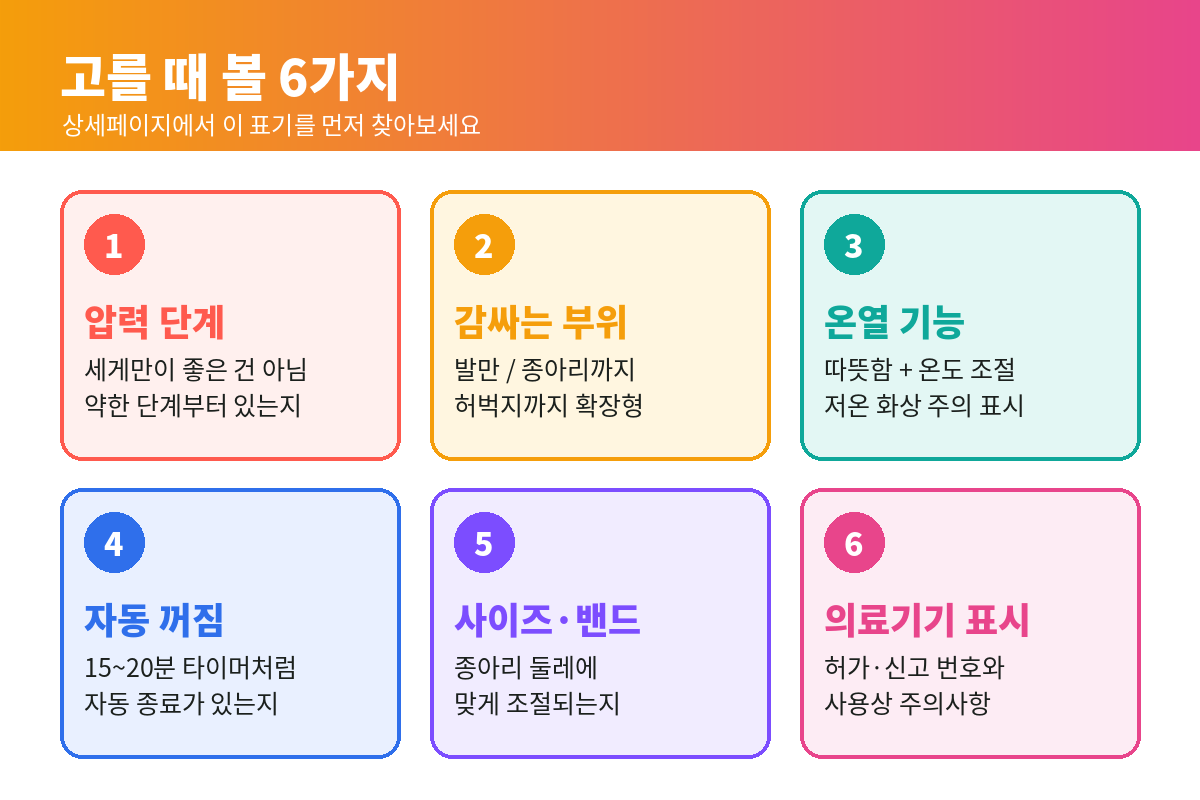
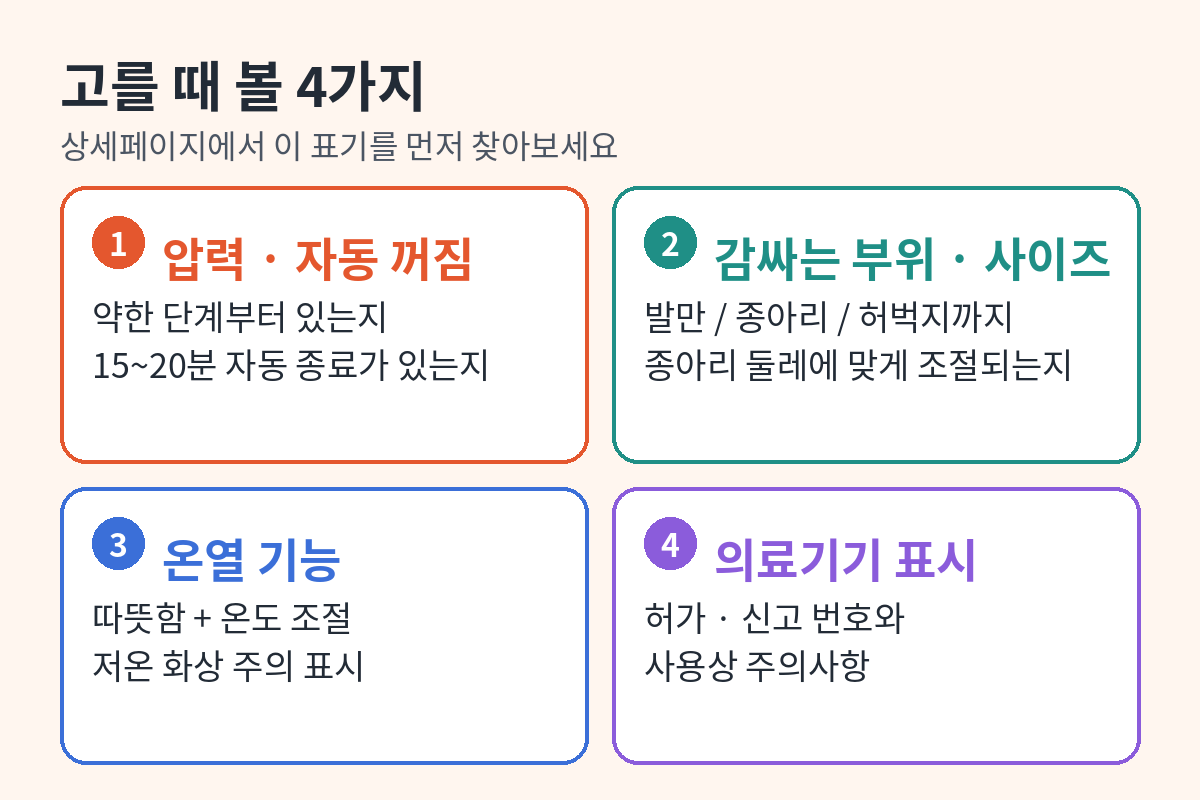
추천 글 설명 그래픽 6장 카드 4개·큰 글씨로 다시 그림 (컨펌 i11 1단계)
카드 6개였던 그래픽(S26 울트라 1, 탭 S12 울트라 1, JBL 어센틱 200 1, 노트북 1, 스팀 울트라 3, 종아리 마사지기 2)을
카드 4개로 묶고 본문 34px·제목 46px(1200px 기준)로 키움. 내용은 기존 그래픽 사실만 옮김. 종아리 마사지기 대체 문구 4가지로 수정.

Claude-Session: https://claude.ai/code/session_017BFN5KBp3WBuKJLGzNnSfA

diff --git a/shop-calf-foot-air-massager.html b/shop-calf-foot-air-massager.html
@@ -38,7 +38,7 @@
 
 <!-- at:assets -->
 <link rel="stylesheet" href="/assets/site.css?v=bbc86717">
-<script type="application/ld+json">{"@context":"https://schema.org","@graph":[{"@type":"WebPage","@id":"https://www.aroundtool.com/shop-calf-foot-air-massager.html#webpage","url":"https://www.aroundtool.com/shop-calf-foot-air-massager.html","name":"종아리 마사지기 공기압 추천 가격 총정리","description":"공기압 종아리·발 마사지기를 고를 때 볼 압력 단계, 감싸는 부위, 온열, 자동 꺼짐, 의료기기 표시를 그림으로 정리했습니다. 사용 전 상담이 필요한 경우와 가격 비교 기준까지.","inLanguage":"ko-KR","isPartOf":{"@id":"https://www.aroundtool.com/#website"},"publisher":{"@id":"https://www.aroundtool.com/#org"},"dateModified":"2026-10-24","primaryImageOfPage":{"@type":"ImageObject","contentUrl":"https://www.aroundtool.com/assets/shop/calf-foot-air-massager/og.jpg","url":"https://www.aroundtool.com/assets/shop/calf-foot-air-massager/og.jpg","caption":"닥터라이프 공기압 마사지기 다리 커버 한 쌍","name":"닥터라이프 공기압 마사지기 다리 커버 한 쌍","width":1200,"height":630,"creditText":"판매처 판매 페이지 이미지","creator":{"@type":"Organization","name":"판매처"},"copyrightNotice":"© 판매처","acquireLicensePage":"https://www.aroundtool.com/contact.html"},"thumbnailUrl":"https://www.aroundtool.com/assets/shop/calf-foot-air-massager/og.jpg","breadcrumb":{"@id":"https://www.aroundtool.com/shop-calf-foot-air-massager.html#breadcrumb"}},{"@type":"BreadcrumbList","itemListElement":[{"@type":"ListItem","position":1,"name":"홈","item":"https://www.aroundtool.com/"},{"@type":"ListItem","position":2,"name":"추천 모음","item":"https://www.aroundtool.com/connect.html"},{"@type":"ListItem","position":3,"name":"제품 추천","item":"https://www.aroundtool.com/connect.html#product"},{"@type":"ListItem","position":4,"name":"공기압 종아리·발 마사지기","item":"https://www.aroundtool.com/shop-calf-foot-air-massager.html"}],"@id":"https://www.aroundtool.com/shop-calf-foot-air-massager.html#breadcrumb"},{"@type":"BlogPosting","headline":"종아리 마사지기 공기압 추천 가격 총정리","description":"공기압 종아리·발 마사지기를 고를 때 볼 압력 단계, 감싸는 부위, 온열, 자동 꺼짐, 의료기기 표시를 그림으로 정리했습니다. 사용 전 상담이 필요한 경우와 가격 비교 기준까지.","inLanguage":"ko-KR","datePublished":"2026-10-24","dateModified":"2026-10-26","author":{"@id":"https://www.aroundtool.com/#org"},"publisher":{"@id":"https://www.aroundtool.com/#org"},"mainEntityOfPage":"https://www.aroundtool.com/shop-calf-foot-air-massager.html","image":[{"@type":"ImageObject","contentUrl":"https://www.aroundtool.com/assets/shop/calf-foot-air-massager/product.jpg","url":"https://www.aroundtool.com/assets/shop/calf-foot-air-massager/product.jpg","caption":"닥터라이프 공기압 마사지기 다리 커버 한 쌍","name":"닥터라이프 공기압 마사지기 다리 커버 한 쌍","width":897,"height":594,"creditText":"판매처 판매 페이지 이미지","creator":{"@type":"Organization","name":"판매처"},"copyrightNotice":"© 판매처","acquireLicensePage":"https://www.aroundtool.com/contact.html"},{"@type":"ImageObject","contentUrl":"https://www.aroundtool.com/assets/shop/calf-foot-air-massager/1.png","url":"https://www.aroundtool.com/assets/shop/calf-foot-air-massager/1.png","caption":"공기압 마사지기 작동 순서: 발바닥, 발목, 종아리 아래, 종아리 위 순서로 공기 주머니가 부풀었다 빠짐","name":"공기압 마사지기 작동 순서: 발바닥, 발목, 종아리 아래, 종아리 위 순서로 공기 주머니가 부풀었다 빠짐","width":1200,"height":800,"creditText":"어라운드툴","creator":{"@type":"Organization","name":"어라운드툴","url":"https://www.aroundtool.com/"},"copyrightNotice":"© 어라운드툴 (aroundtool.com)","license":"https://www.aroundtool.com/terms.html#copyright","acquireLicensePage":"https://www.aroundtool.com/contact.html"},{"@type":"ImageObject","contentUrl":"https://www.aroundtool.com/assets/shop/calf-foot-air-massager/2.png","url":"https://www.aroundtool.com/assets/shop/calf-foot-air-massager/2.png","caption":"종아리 마사지기 고를 때 볼 6가지: 압력 단계, 감싸는 부위, 온열 기능, 자동 꺼짐, 사이즈, 의료기기 표시","name":"종아리 마사지기 고를 때 볼 6가지: 압력 단계, 감싸는 부위, 온열 기능, 자동 꺼짐, 사이즈, 의료기기 표시","width":1200,"height":800,"creditText":"어라운드툴","creator":{"@type":"Organization","name":"어라운드툴","url":"https://www.aroundtool.com/"},"copyrightNotice":"© 어라운드툴 (aroundtool.com)","license":"https://www.aroundtool.com/terms.html#copyright","acquireLicensePage":"https://www.aroundtool.com/contact.html"},{"@type":"ImageObject","contentUrl":"https://www.aroundtool.com/assets/shop/calf-foot-air-massager/3.png","url":"https://www.aroundtool.com/assets/shop/calf-foot-air-massager/3.png","caption":"공기압 마사지기 사용 전 상담이 필요한 경우: 혈전 이력, 다리 상처, 심장·신장 질환, 임신·수술 직후, 다리 감각 저하","name":"공기압 마사지기 사용 전 상담이 필요한 경우: 혈전 이력, 다리 상처, 심장·신장 질환, 임신·수술 직후, 다리 감각 저하","width":1200,"height":800,"creditText":"어라운드툴","creator":{"@type":"Organization","name":"어라운드툴","url":"https://www.aroundtool.com/"},"copyrightNotice":"© 어라운드툴 (aroundtool.com)","license":"https://www.aroundtool.com/terms.html#copyright","acquireLicensePage":"https://www.aroundtool.com/contact.html"}],"keywords":"종아리 마사지기, 공기압 마사지기 추천, 종아리 마사지기 가격, 발 마사지기, 다리 마사지기","about":{"@type":"Thing","name":"공기압 종아리·발 마사지기"}},{"@type":"FAQPage","mainEntity":[{"@type":"Question","name":"공기압 마사지기는 어떻게 작동하나요?","acceptedAnswer":{"@type":"Answer","text":"공기 주머니가 발바닥, 발목, 종아리 아래, 종아리 위 순서로 부풀었다 빠지며 다리를 눌러 줍니다."}},{"@type":"Question","name":"발 마사지기와 종아리 마사지기 중 무엇이 좋나요?","acceptedAnswer":{"@type":"Answer","text":"발 전용은 가볍고 자리를 덜 차지하며, 종아리·발 일체형은 무릎 아래까지 한 번에 감싸는 대신 종아리 둘레 사이즈 확인이 필수입니다."}},{"@type":"Question","name":"압력은 셀수록 좋은가요?","acceptedAnswer":{"@type":"Answer","text":"아닙니다. 약한 단계부터 세밀하게 고를 수 있는지가 더 중요합니다."}},{"@type":"Question","name":"공기압 마사지기를 쓰면 안 되는 경우는요?","acceptedAnswer":{"@type":"Answer","text":"혈전·심장 질환으로 치료 중이거나 다리에 상처·염증이 있으면 사용 전 상담이 필요합니다. 다리 붓기가 갑자기 심해졌다면 진료가 먼저입니다."}},{"@type":"Question","name":"‘혈액순환 마사지기’라는 표현은 믿어도 되나요?","acceptedAnswer":{"@type":"Answer","text":"효능을 내세우려면 의료기기 허가가 필요합니다. 상세페이지의 의료기기 표시와 허가 번호를 확인하세요."}}]}]}</script>
+<script type="application/ld+json">{"@context":"https://schema.org","@graph":[{"@type":"WebPage","@id":"https://www.aroundtool.com/shop-calf-foot-air-massager.html#webpage","url":"https://www.aroundtool.com/shop-calf-foot-air-massager.html","name":"종아리 마사지기 공기압 추천 가격 총정리","description":"공기압 종아리·발 마사지기를 고를 때 볼 압력 단계, 감싸는 부위, 온열, 자동 꺼짐, 의료기기 표시를 그림으로 정리했습니다. 사용 전 상담이 필요한 경우와 가격 비교 기준까지.","inLanguage":"ko-KR","isPartOf":{"@id":"https://www.aroundtool.com/#website"},"publisher":{"@id":"https://www.aroundtool.com/#org"},"dateModified":"2026-10-24","primaryImageOfPage":{"@type":"ImageObject","contentUrl":"https://www.aroundtool.com/assets/shop/calf-foot-air-massager/og.jpg","url":"https://www.aroundtool.com/assets/shop/calf-foot-air-massager/og.jpg","caption":"닥터라이프 공기압 마사지기 다리 커버 한 쌍","name":"닥터라이프 공기압 마사지기 다리 커버 한 쌍","width":1200,"height":630,"creditText":"판매처 판매 페이지 이미지","creator":{"@type":"Organization","name":"판매처"},"copyrightNotice":"© 판매처","acquireLicensePage":"https://www.aroundtool.com/contact.html"},"thumbnailUrl":"https://www.aroundtool.com/assets/shop/calf-foot-air-massager/og.jpg","breadcrumb":{"@id":"https://www.aroundtool.com/shop-calf-foot-air-massager.html#breadcrumb"}},{"@type":"BreadcrumbList","itemListElement":[{"@type":"ListItem","position":1,"name":"홈","item":"https://www.aroundtool.com/"},{"@type":"ListItem","position":2,"name":"추천 모음","item":"https://www.aroundtool.com/connect.html"},{"@type":"ListItem","position":3,"name":"제품 추천","item":"https://www.aroundtool.com/connect.html#product"},{"@type":"ListItem","position":4,"name":"공기압 종아리·발 마사지기","item":"https://www.aroundtool.com/shop-calf-foot-air-massager.html"}],"@id":"https://www.aroundtool.com/shop-calf-foot-air-massager.html#breadcrumb"},{"@type":"BlogPosting","headline":"종아리 마사지기 공기압 추천 가격 총정리","description":"공기압 종아리·발 마사지기를 고를 때 볼 압력 단계, 감싸는 부위, 온열, 자동 꺼짐, 의료기기 표시를 그림으로 정리했습니다. 사용 전 상담이 필요한 경우와 가격 비교 기준까지.","inLanguage":"ko-KR","datePublished":"2026-10-24","dateModified":"2026-10-26","author":{"@id":"https://www.aroundtool.com/#org"},"publisher":{"@id":"https://www.aroundtool.com/#org"},"mainEntityOfPage":"https://www.aroundtool.com/shop-calf-foot-air-massager.html","image":[{"@type":"ImageObject","contentUrl":"https://www.aroundtool.com/assets/shop/calf-foot-air-massager/product.jpg","url":"https://www.aroundtool.com/assets/shop/calf-foot-air-massager/product.jpg","caption":"닥터라이프 공기압 마사지기 다리 커버 한 쌍","name":"닥터라이프 공기압 마사지기 다리 커버 한 쌍","width":897,"height":594,"creditText":"판매처 판매 페이지 이미지","creator":{"@type":"Organization","name":"판매처"},"copyrightNotice":"© 판매처","acquireLicensePage":"https://www.aroundtool.com/contact.html"},{"@type":"ImageObject","contentUrl":"https://www.aroundtool.com/assets/shop/calf-foot-air-massager/1.png","url":"https://www.aroundtool.com/assets/shop/calf-foot-air-massager/1.png","caption":"공기압 마사지기 작동 순서: 발바닥, 발목, 종아리 아래, 종아리 위 순서로 공기 주머니가 부풀었다 빠짐","name":"공기압 마사지기 작동 순서: 발바닥, 발목, 종아리 아래, 종아리 위 순서로 공기 주머니가 부풀었다 빠짐","width":1200,"height":800,"creditText":"어라운드툴","creator":{"@type":"Organization","name":"어라운드툴","url":"https://www.aroundtool.com/"},"copyrightNotice":"© 어라운드툴 (aroundtool.com)","license":"https://www.aroundtool.com/terms.html#copyright","acquireLicensePage":"https://www.aroundtool.com/contact.html"},{"@type":"ImageObject","contentUrl":"https://www.aroundtool.com/assets/shop/calf-foot-air-massager/2.png","url":"https://www.aroundtool.com/assets/shop/calf-foot-air-massager/2.png","caption":"종아리 마사지기 고를 때 볼 4가지: 압력 단계와 자동 꺼짐, 감싸는 부위와 사이즈, 온열 기능, 의료기기 표시","name":"종아리 마사지기 고를 때 볼 4가지: 압력 단계와 자동 꺼짐, 감싸는 부위와 사이즈, 온열 기능, 의료기기 표시","width":1200,"height":800,"creditText":"어라운드툴","creator":{"@type":"Organization","name":"어라운드툴","url":"https://www.aroundtool.com/"},"copyrightNotice":"© 어라운드툴 (aroundtool.com)","license":"https://www.aroundtool.com/terms.html#copyright","acquireLicensePage":"https://www.aroundtool.com/contact.html"},{"@type":"ImageObject","contentUrl":"https://www.aroundtool.com/assets/shop/calf-foot-air-massager/3.png","url":"https://www.aroundtool.com/assets/shop/calf-foot-air-massager/3.png","caption":"공기압 마사지기 사용 전 상담이 필요한 경우: 혈전 이력, 다리 상처, 심장·신장 질환, 임신·수술 직후, 다리 감각 저하","name":"공기압 마사지기 사용 전 상담이 필요한 경우: 혈전 이력, 다리 상처, 심장·신장 질환, 임신·수술 직후, 다리 감각 저하","width":1200,"height":800,"creditText":"어라운드툴","creator":{"@type":"Organization","name":"어라운드툴","url":"https://www.aroundtool.com/"},"copyrightNotice":"© 어라운드툴 (aroundtool.com)","license":"https://www.aroundtool.com/terms.html#copyright","acquireLicensePage":"https://www.aroundtool.com/contact.html"}],"keywords":"종아리 마사지기, 공기압 마사지기 추천, 종아리 마사지기 가격, 발 마사지기, 다리 마사지기","about":{"@type":"Thing","name":"공기압 종아리·발 마사지기"}},{"@type":"FAQPage","mainEntity":[{"@type":"Question","name":"공기압 마사지기는 어떻게 작동하나요?","acceptedAnswer":{"@type":"Answer","text":"공기 주머니가 발바닥, 발목, 종아리 아래, 종아리 위 순서로 부풀었다 빠지며 다리를 눌러 줍니다."}},{"@type":"Question","name":"발 마사지기와 종아리 마사지기 중 무엇이 좋나요?","acceptedAnswer":{"@type":"Answer","text":"발 전용은 가볍고 자리를 덜 차지하며, 종아리·발 일체형은 무릎 아래까지 한 번에 감싸는 대신 종아리 둘레 사이즈 확인이 필수입니다."}},{"@type":"Question","name":"압력은 셀수록 좋은가요?","acceptedAnswer":{"@type":"Answer","text":"아닙니다. 약한 단계부터 세밀하게 고를 수 있는지가 더 중요합니다."}},{"@type":"Question","name":"공기압 마사지기를 쓰면 안 되는 경우는요?","acceptedAnswer":{"@type":"Answer","text":"혈전·심장 질환으로 치료 중이거나 다리에 상처·염증이 있으면 사용 전 상담이 필요합니다. 다리 붓기가 갑자기 심해졌다면 진료가 먼저입니다."}},{"@type":"Question","name":"‘혈액순환 마사지기’라는 표현은 믿어도 되나요?","acceptedAnswer":{"@type":"Answer","text":"효능을 내세우려면 의료기기 허가가 필요합니다. 상세페이지의 의료기기 표시와 허가 번호를 확인하세요."}}]}]}</script>
 <script async src="https://www.googletagmanager.com/gtag/js?id=G-2LK65NYW74"></script>
 <script>window.dataLayer=window.dataLayer||[];function gtag(){dataLayer.push(arguments);}gtag('js',new Date());gtag('config','G-2LK65NYW74');</script>
 <!-- /at:assets -->
@@ -80,7 +80,7 @@
 
 
 
-<div class="vx-hero b-sum"><div aria-hidden="true" class="vx-hero-emoji">🦵</div><p class="vx-hero-h">하루 종일 서 있거나 앉아 있던 다리,<br/>퇴근 후 20분이 달라질까?</p><p class="vx-hero-s">공기압 종아리 마사지기, 고르기 전에 이것만 보세요.</p><div class="vx-chips"><span class="vx-chip vx-coral">압력 단계</span><span class="vx-chip vx-amber">감싸는 부위</span><span class="vx-chip vx-teal">온열·타이머</span><span class="vx-chip vx-blue">의료기기 표시</span></div></div><section class="b-card"><p>저녁만 되면 종아리가 돌처럼 뭉치고 발이 퉁퉁 붓는 느낌, 오래 서서 일하거나 하루 종일 책상 앞에 앉아 있는 분들이라면 익숙할 거예요. 그래서 요즘 많이 찾는 게 공기 주머니로 다리를 감싸 꾹꾹 눌러 주는 <b>종아리 마사지기</b>입니다. 누워서 버튼만 누르면 되니 손이 아프지도 않고요.</p><figure class="at-fig"><img alt="공기압 마사지기 작동 순서: 발바닥, 발목, 종아리 아래, 종아리 위 순서로 공기 주머니가 부풀었다 빠짐" decoding="async" height="800" loading="lazy" src="/assets/shop/calf-foot-air-massager/1.png" width="1200"/></figure></section><section class="b-card" id="b-s2"><section class="vx-sec"><h2 class="vx-title"><span aria-hidden="true" class="b-num">1</span><span class="b-ht">공기압 마사지기, 이 3가지가 핵심</span></h2><div class="vx-cards"><div class="vx-card vx-coral"><span class="vx-card-n">1</span><span aria-hidden="true" class="vx-card-e">💨</span><p class="vx-card-t">순서대로 누르는 방식</p><p class="vx-card-d">발끝에서 종아리 위쪽으로 주머니가 차례로 부풀었다 빠지는지 확인하세요.</p></div><div class="vx-card vx-amber"><span class="vx-card-n">2</span><span aria-hidden="true" class="vx-card-e">🎚</span><p class="vx-card-t">압력은 세밀하게</p><p class="vx-card-d">세다고 좋은 게 아니에요. <mark class="vx-hl">약한 단계부터 고를 수 있는지</mark>가 더 중요합니다.</p></div><div class="vx-card vx-teal"><span class="vx-card-n">3</span><span aria-hidden="true" class="vx-card-e">⏱</span><p class="vx-card-t">자동 꺼짐 타이머</p><p class="vx-card-d">잠들어도 알아서 꺼지는 15~20분 타이머가 있으면 마음이 편해요.</p></div></div></section><div class="vx-callout vx-amber"><span aria-hidden="true">🏷</span><p>‘혈액순환 마사지기’로 많이 검색되지만, 효능을 내세우려면 의료기기 허가가 필요해요. <mark class="vx-hl">상세페이지의 의료기기 표시와 허가 번호</mark>를 꼭 확인하세요.</p></div><div class="vx-cta-mid"><p>👀 이 마사지기는 몇 단계 압력일까? 사이즈는 맞을까?</p><a class="at-cta" data-track="cta-calf-foot-air-massager-mid" data-track-pos="mid" data-track-post="calf-foot-air-massager" data-track-type="affiliate" data-web="https://gw-brandconnect.naver.com/affiliate/query/redirect/993384530917728?channelProductNo=3442126222&amp;originAccessLogChannel=UNKNOWN&amp;ctid=&amp;cid=" href="https://brandconnect.naver.com/affiliates/993384530917728?channelProductNo=3442126222" id="cta-calf-foot-air-massager-mid" rel="sponsored nofollow noopener" target="_blank">제품 가격 알아보기 &gt;&gt;</a></div></section><section class="b-card" id="b-s3"><section class="vx-sec"><h2 class="vx-title"><span aria-hidden="true" class="b-num">2</span><span class="b-ht">종아리 마사지기, 발만 vs 종아리까지</span></h2><div class="vx-vs"><div class="vx-vs-col vx-teal"><p class="vx-vs-name">발 전용</p><ul><li>가볍고 자리 차지가 적음</li><li>발바닥·발등 위주</li><li>앉아서 TV 보며 쓰기 편함</li></ul></div><span class="vx-vs-mid">VS</span><div class="vx-vs-col vx-violet"><p class="vx-vs-name">종아리·발 일체형</p><ul><li>발부터 무릎 아래까지 한 번에</li><li>부츠처럼 신는 형태가 많음</li><li>종아리 둘레 사이즈 확인 필수</li></ul></div></div></section><figure class="at-fig"><img alt="종아리 마사지기 고를 때 볼 6가지: 압력 단계, 감싸는 부위, 온열 기능, 자동 꺼짐, 사이즈, 의료기기 표시" decoding="async" height="800" loading="lazy" src="/assets/shop/calf-foot-air-massager/2.png" width="1200"/></figure></section><section class="b-card" id="b-s4"><section class="vx-sec vx-check vx-blue"><h2 class="vx-title"><span aria-hidden="true" class="b-num">3</span><span class="b-ht">종아리 마사지기 결제 전 체크리스트</span></h2><ul><li><b>종아리 둘레</b><span>밴드·지퍼로 조절되는 범위가 내 다리에 맞는지</span></li><li><b>온열 온도</b><span>온도 조절이 되는지, 저온 화상 주의 안내가 있는지</span></li><li><b>소음</b><span>밤에 쓸 거라면 작동 소리 후기도 함께</span></li><li><b>세탁</b><span>커버를 분리해 빨 수 있는지</span></li></ul></section></section><section class="b-card" id="b-s5"><section class="vx-sec"><h2 class="vx-title"><span aria-hidden="true" class="b-num">4</span><span class="b-ht">한눈에 보는 추천 대상</span></h2><div class="vx-tags"><p class="vx-tags-h vx-yes-h">이런 분께 잘 맞아요</p><span class="vx-tag vx-yes">✔ 오래 서서 일하는 분</span><span class="vx-tag vx-yes">✔ 퇴근 후 다리가 무거운 분</span><span class="vx-tag vx-yes">✔ 부모님 선물을 찾는 분</span></div><div class="vx-tags"><p class="vx-tags-h vx-no-h">이런 분은 한 번 더 생각해 보세요</p><span class="vx-tag vx-no">✕ 혈전·심장 질환으로 치료 중인 분</span><span class="vx-tag vx-no">✕ 다리에 상처·염증이 있는 분</span></div></section><figure class="at-fig"><img alt="공기압 마사지기 사용 전 상담이 필요한 경우: 혈전 이력, 다리 상처, 심장·신장 질환, 임신·수술 직후, 다리 감각 저하" decoding="async" height="800" loading="lazy" src="/assets/shop/calf-foot-air-massager/3.png" width="1200"/></figure><p>종아리 마사지기 가격은 감싸는 부위, 압력 단계 수, 온열 여부에 따라 차이가 꽤 납니다. 같은 값이라면 <mark class="vx-hl">사이즈 조절 범위와 자동 꺼짐</mark>이 갖춰진 쪽이 오래 쓰기 편해요. 다리가 붓는 증상이 갑자기 심해졌다면 기기보다 진료가 먼저라는 점도 기억해 두세요.</p><p>아래 버튼에서 이번에 살펴본 공기압 종아리·발 마사지기의 압력 단계, 사이즈, 현재 가격을 확인할 수 있습니다.</p><p>위의 체크리스트와 하나씩 맞춰 보며 내 다리와 생활에 맞는지 참고해 보세요.</p></section><section class="b-card" id="b-s6"><h2><span aria-hidden="true" class="b-num">5</span><span class="b-ht">공기압 종아리 마사지기 고르는 기준</span></h2><div aria-label="표 (좌우로 밀어서 보기)" class="at-table" role="region" tabindex="0"><table class="b-stack b-stack2"><thead><tr><th>항목</th><th>확인할 것</th></tr></thead><tbody><tr><th>작동 순서</th><td data-label="확인할 것">발끝에서 종아리 위로 차례로 부풀었다 빠지는지</td></tr><tr><th>압력 단계</th><td data-label="확인할 것">약한 단계부터 고를 수 있는지</td></tr><tr><th>자동 꺼짐</th><td data-label="확인할 것">15~20분 타이머</td></tr><tr><th>사이즈</th><td data-label="확인할 것">종아리 둘레 조절 범위</td></tr><tr><th>온열·세탁</th><td data-label="확인할 것">온도 조절·저온 화상 안내, 커버 분리 세탁</td></tr><tr><th>의료기기 표시</th><td data-label="확인할 것">효능을 내세우면 허가 번호 확인</td></tr></tbody></table></div></section><section class="b-card" id="b-s7"><h2 id="faq"><span class="b-ht">자주 묻는 질문</span></h2><div class="at-faq"><details><summary>공기압 마사지기는 어떻게 작동하나요?</summary><div class="a"><p>공기 주머니가 발바닥, 발목, 종아리 아래, 종아리 위 순서로 부풀었다 빠지며 다리를 눌러 줍니다.</p></div></details><details><summary>발 마사지기와 종아리 마사지기 중 무엇이 좋나요?</summary><div class="a"><p>발 전용은 가볍고 자리를 덜 차지하며, 종아리·발 일체형은 무릎 아래까지 한 번에 감싸는 대신 종아리 둘레 사이즈 확인이 필수입니다.</p></div></details><details><summary>압력은 셀수록 좋은가요?</summary><div class="a"><p>아닙니다. 약한 단계부터 세밀하게 고를 수 있는지가 더 중요합니다.</p></div></details><details><summary>공기압 마사지기를 쓰면 안 되는 경우는요?</summary><div class="a"><p>혈전·심장 질환으로 치료 중이거나 다리에 상처·염증이 있으면 사용 전 상담이 필요합니다. 다리 붓기가 갑자기 심해졌다면 진료가 먼저입니다.</p></div></details><details><summary>‘혈액순환 마사지기’라는 표현은 믿어도 되나요?</summary><div class="a"><p>효능을 내세우려면 의료기기 허가가 필요합니다. 상세페이지의 의료기기 표시와 허가 번호를 확인하세요.</p></div></details></div></section><section class="b-card" id="b-s8"><h2><span class="b-ht">이 글의 기준</span></h2><p class="at-note">이 글은 직접 사용해 본 후기가 아니라, 제조사·판매처 공식 자료와 공개된 정보를 바탕으로 작성일 기준으로 정리한 글입니다. 가격·구성·재고는 판매처와 시점에 따라 달라지니 결제 전 판매 페이지에서 확인하세요. 건강·피부 관련 내용은 의학적 조언이 아니며, 증상이 있으면 전문가와 상담하세요. 틀린 내용은 <a href="/contact.html">문의하기</a>로 알려 주시면 고칩니다.</p><p class="at-disclose-sm"><b>광고</b> 이 포스팅은 네이버 쇼핑 커넥트 활동의 일환으로, 이에 따른 일정액의 수수료를 제공받습니다.</p><a class="at-cta" data-track="cta-calf-foot-air-massager-end" data-track-pos="end" data-track-post="calf-foot-air-massager" data-track-type="affiliate" data-web="https://gw-brandconnect.naver.com/affiliate/query/redirect/993384530917728?channelProductNo=3442126222&amp;originAccessLogChannel=UNKNOWN&amp;ctid=&amp;cid=" href="https://brandconnect.naver.com/affiliates/993384530917728?channelProductNo=3442126222" id="cta-calf-foot-air-massager-end" rel="sponsored nofollow noopener" target="_blank">제품 가격 알아보기 &gt;&gt;</a></section></div></div>
+<div class="vx-hero b-sum"><div aria-hidden="true" class="vx-hero-emoji">🦵</div><p class="vx-hero-h">하루 종일 서 있거나 앉아 있던 다리,<br/>퇴근 후 20분이 달라질까?</p><p class="vx-hero-s">공기압 종아리 마사지기, 고르기 전에 이것만 보세요.</p><div class="vx-chips"><span class="vx-chip vx-coral">압력 단계</span><span class="vx-chip vx-amber">감싸는 부위</span><span class="vx-chip vx-teal">온열·타이머</span><span class="vx-chip vx-blue">의료기기 표시</span></div></div><section class="b-card"><p>저녁만 되면 종아리가 돌처럼 뭉치고 발이 퉁퉁 붓는 느낌, 오래 서서 일하거나 하루 종일 책상 앞에 앉아 있는 분들이라면 익숙할 거예요. 그래서 요즘 많이 찾는 게 공기 주머니로 다리를 감싸 꾹꾹 눌러 주는 <b>종아리 마사지기</b>입니다. 누워서 버튼만 누르면 되니 손이 아프지도 않고요.</p><figure class="at-fig"><img alt="공기압 마사지기 작동 순서: 발바닥, 발목, 종아리 아래, 종아리 위 순서로 공기 주머니가 부풀었다 빠짐" decoding="async" height="800" loading="lazy" src="/assets/shop/calf-foot-air-massager/1.png" width="1200"/></figure></section><section class="b-card" id="b-s2"><section class="vx-sec"><h2 class="vx-title"><span aria-hidden="true" class="b-num">1</span><span class="b-ht">공기압 마사지기, 이 3가지가 핵심</span></h2><div class="vx-cards"><div class="vx-card vx-coral"><span class="vx-card-n">1</span><span aria-hidden="true" class="vx-card-e">💨</span><p class="vx-card-t">순서대로 누르는 방식</p><p class="vx-card-d">발끝에서 종아리 위쪽으로 주머니가 차례로 부풀었다 빠지는지 확인하세요.</p></div><div class="vx-card vx-amber"><span class="vx-card-n">2</span><span aria-hidden="true" class="vx-card-e">🎚</span><p class="vx-card-t">압력은 세밀하게</p><p class="vx-card-d">세다고 좋은 게 아니에요. <mark class="vx-hl">약한 단계부터 고를 수 있는지</mark>가 더 중요합니다.</p></div><div class="vx-card vx-teal"><span class="vx-card-n">3</span><span aria-hidden="true" class="vx-card-e">⏱</span><p class="vx-card-t">자동 꺼짐 타이머</p><p class="vx-card-d">잠들어도 알아서 꺼지는 15~20분 타이머가 있으면 마음이 편해요.</p></div></div></section><div class="vx-callout vx-amber"><span aria-hidden="true">🏷</span><p>‘혈액순환 마사지기’로 많이 검색되지만, 효능을 내세우려면 의료기기 허가가 필요해요. <mark class="vx-hl">상세페이지의 의료기기 표시와 허가 번호</mark>를 꼭 확인하세요.</p></div><div class="vx-cta-mid"><p>👀 이 마사지기는 몇 단계 압력일까? 사이즈는 맞을까?</p><a class="at-cta" data-track="cta-calf-foot-air-massager-mid" data-track-pos="mid" data-track-post="calf-foot-air-massager" data-track-type="affiliate" data-web="https://gw-brandconnect.naver.com/affiliate/query/redirect/993384530917728?channelProductNo=3442126222&amp;originAccessLogChannel=UNKNOWN&amp;ctid=&amp;cid=" href="https://brandconnect.naver.com/affiliates/993384530917728?channelProductNo=3442126222" id="cta-calf-foot-air-massager-mid" rel="sponsored nofollow noopener" target="_blank">제품 가격 알아보기 &gt;&gt;</a></div></section><section class="b-card" id="b-s3"><section class="vx-sec"><h2 class="vx-title"><span aria-hidden="true" class="b-num">2</span><span class="b-ht">종아리 마사지기, 발만 vs 종아리까지</span></h2><div class="vx-vs"><div class="vx-vs-col vx-teal"><p class="vx-vs-name">발 전용</p><ul><li>가볍고 자리 차지가 적음</li><li>발바닥·발등 위주</li><li>앉아서 TV 보며 쓰기 편함</li></ul></div><span class="vx-vs-mid">VS</span><div class="vx-vs-col vx-violet"><p class="vx-vs-name">종아리·발 일체형</p><ul><li>발부터 무릎 아래까지 한 번에</li><li>부츠처럼 신는 형태가 많음</li><li>종아리 둘레 사이즈 확인 필수</li></ul></div></div></section><figure class="at-fig"><img alt="종아리 마사지기 고를 때 볼 4가지: 압력 단계와 자동 꺼짐, 감싸는 부위와 사이즈, 온열 기능, 의료기기 표시" decoding="async" height="800" loading="lazy" src="/assets/shop/calf-foot-air-massager/2.png" width="1200"/></figure></section><section class="b-card" id="b-s4"><section class="vx-sec vx-check vx-blue"><h2 class="vx-title"><span aria-hidden="true" class="b-num">3</span><span class="b-ht">종아리 마사지기 결제 전 체크리스트</span></h2><ul><li><b>종아리 둘레</b><span>밴드·지퍼로 조절되는 범위가 내 다리에 맞는지</span></li><li><b>온열 온도</b><span>온도 조절이 되는지, 저온 화상 주의 안내가 있는지</span></li><li><b>소음</b><span>밤에 쓸 거라면 작동 소리 후기도 함께</span></li><li><b>세탁</b><span>커버를 분리해 빨 수 있는지</span></li></ul></section></section><section class="b-card" id="b-s5"><section class="vx-sec"><h2 class="vx-title"><span aria-hidden="true" class="b-num">4</span><span class="b-ht">한눈에 보는 추천 대상</span></h2><div class="vx-tags"><p class="vx-tags-h vx-yes-h">이런 분께 잘 맞아요</p><span class="vx-tag vx-yes">✔ 오래 서서 일하는 분</span><span class="vx-tag vx-yes">✔ 퇴근 후 다리가 무거운 분</span><span class="vx-tag vx-yes">✔ 부모님 선물을 찾는 분</span></div><div class="vx-tags"><p class="vx-tags-h vx-no-h">이런 분은 한 번 더 생각해 보세요</p><span class="vx-tag vx-no">✕ 혈전·심장 질환으로 치료 중인 분</span><span class="vx-tag vx-no">✕ 다리에 상처·염증이 있는 분</span></div></section><figure class="at-fig"><img alt="공기압 마사지기 사용 전 상담이 필요한 경우: 혈전 이력, 다리 상처, 심장·신장 질환, 임신·수술 직후, 다리 감각 저하" decoding="async" height="800" loading="lazy" src="/assets/shop/calf-foot-air-massager/3.png" width="1200"/></figure><p>종아리 마사지기 가격은 감싸는 부위, 압력 단계 수, 온열 여부에 따라 차이가 꽤 납니다. 같은 값이라면 <mark class="vx-hl">사이즈 조절 범위와 자동 꺼짐</mark>이 갖춰진 쪽이 오래 쓰기 편해요. 다리가 붓는 증상이 갑자기 심해졌다면 기기보다 진료가 먼저라는 점도 기억해 두세요.</p><p>아래 버튼에서 이번에 살펴본 공기압 종아리·발 마사지기의 압력 단계, 사이즈, 현재 가격을 확인할 수 있습니다.</p><p>위의 체크리스트와 하나씩 맞춰 보며 내 다리와 생활에 맞는지 참고해 보세요.</p></section><section class="b-card" id="b-s6"><h2><span aria-hidden="true" class="b-num">5</span><span class="b-ht">공기압 종아리 마사지기 고르는 기준</span></h2><div aria-label="표 (좌우로 밀어서 보기)" class="at-table" role="region" tabindex="0"><table class="b-stack b-stack2"><thead><tr><th>항목</th><th>확인할 것</th></tr></thead><tbody><tr><th>작동 순서</th><td data-label="확인할 것">발끝에서 종아리 위로 차례로 부풀었다 빠지는지</td></tr><tr><th>압력 단계</th><td data-label="확인할 것">약한 단계부터 고를 수 있는지</td></tr><tr><th>자동 꺼짐</th><td data-label="확인할 것">15~20분 타이머</td></tr><tr><th>사이즈</th><td data-label="확인할 것">종아리 둘레 조절 범위</td></tr><tr><th>온열·세탁</th><td data-label="확인할 것">온도 조절·저온 화상 안내, 커버 분리 세탁</td></tr><tr><th>의료기기 표시</th><td data-label="확인할 것">효능을 내세우면 허가 번호 확인</td></tr></tbody></table></div></section><section class="b-card" id="b-s7"><h2 id="faq"><span class="b-ht">자주 묻는 질문</span></h2><div class="at-faq"><details><summary>공기압 마사지기는 어떻게 작동하나요?</summary><div class="a"><p>공기 주머니가 발바닥, 발목, 종아리 아래, 종아리 위 순서로 부풀었다 빠지며 다리를 눌러 줍니다.</p></div></details><details><summary>발 마사지기와 종아리 마사지기 중 무엇이 좋나요?</summary><div class="a"><p>발 전용은 가볍고 자리를 덜 차지하며, 종아리·발 일체형은 무릎 아래까지 한 번에 감싸는 대신 종아리 둘레 사이즈 확인이 필수입니다.</p></div></details><details><summary>압력은 셀수록 좋은가요?</summary><div class="a"><p>아닙니다. 약한 단계부터 세밀하게 고를 수 있는지가 더 중요합니다.</p></div></details><details><summary>공기압 마사지기를 쓰면 안 되는 경우는요?</summary><div class="a"><p>혈전·심장 질환으로 치료 중이거나 다리에 상처·염증이 있으면 사용 전 상담이 필요합니다. 다리 붓기가 갑자기 심해졌다면 진료가 먼저입니다.</p></div></details><details><summary>‘혈액순환 마사지기’라는 표현은 믿어도 되나요?</summary><div class="a"><p>효능을 내세우려면 의료기기 허가가 필요합니다. 상세페이지의 의료기기 표시와 허가 번호를 확인하세요.</p></div></details></div></section><section class="b-card" id="b-s8"><h2><span class="b-ht">이 글의 기준</span></h2><p class="at-note">이 글은 직접 사용해 본 후기가 아니라, 제조사·판매처 공식 자료와 공개된 정보를 바탕으로 작성일 기준으로 정리한 글입니다. 가격·구성·재고는 판매처와 시점에 따라 달라지니 결제 전 판매 페이지에서 확인하세요. 건강·피부 관련 내용은 의학적 조언이 아니며, 증상이 있으면 전문가와 상담하세요. 틀린 내용은 <a href="/contact.html">문의하기</a>로 알려 주시면 고칩니다.</p><p class="at-disclose-sm"><b>광고</b> 이 포스팅은 네이버 쇼핑 커넥트 활동의 일환으로, 이에 따른 일정액의 수수료를 제공받습니다.</p><a class="at-cta" data-track="cta-calf-foot-air-massager-end" data-track-pos="end" data-track-post="calf-foot-air-massager" data-track-type="affiliate" data-web="https://gw-brandconnect.naver.com/affiliate/query/redirect/993384530917728?channelProductNo=3442126222&amp;originAccessLogChannel=UNKNOWN&amp;ctid=&amp;cid=" href="https://brandconnect.naver.com/affiliates/993384530917728?channelProductNo=3442126222" id="cta-calf-foot-air-massager-end" rel="sponsored nofollow noopener" target="_blank">제품 가격 알아보기 &gt;&gt;</a></section></div></div>
 </article>
 <div class="at-pop" data-at-popup="calf-foot-air-massager" hidden="">
 <div class="at-pop-back" data-pop-close=""></div>

diff --git a/scripts/shop_graphics_i11.py b/scripts/shop_graphics_i11.py
@@ -1,0 +1,97 @@
+# -*- coding: utf-8 -*-
+"""컨펌 i11(설명 그래픽 글씨 키우기) 1단계: 카드 6개짜리 그래픽 6장을 카드 4개·큰 글씨로 다시 그림.
+내용은 기존 그래픽에 있던 사실만 묶어 옮김(새 주장 없음). python3 scripts/shop_graphics_i11.py
+글자 크기(1200px 기준): 제목 54 · 부제 32 · 카드 제목 46 · 카드 본문 34 → 휴대폰(약 360px 표시)에서 본문 약 10px 이상."""
+import os
+from PIL import Image, ImageDraw, ImageFont
+
+ROOT = os.path.dirname(os.path.dirname(os.path.abspath(__file__)))
+FB = "/usr/share/fonts/opentype/noto/NotoSansCJK-Bold.ttc"
+FR = "/usr/share/fonts/opentype/noto/NotoSansCJK-Regular.ttc"
+INK, MUTE = "#222B36", "#4B5563"
+PAL = ["#E4572E", "#1F8F86", "#3B6FD8", "#8B5CDB"]
+
+
+def font(path, size):
+    return ImageFont.truetype(path, size, index=1)
+
+
+def fit(d, text, path, size, maxw, minsize):
+    while size > minsize and d.textlength(text, font=font(path, size)) > maxw:
+        size -= 2
+    return font(path, size)
+
+
+def draw(slug, n, title, sub, items, bg="#FFF8F2", size=(1200, 750), numbered=False):
+    W, H = size
+    im = Image.new("RGB", (W, H), bg)
+    d = ImageDraw.Draw(im)
+    d.text((60, 44), title, font=fit(d, title, FB, 54, W - 120, 44), fill=INK)
+    d.text((60, 120), sub, font=fit(d, sub, FR, 32, W - 120, 28), fill=MUTE)
+    top, gap = 186, 24
+    cw = (W - 120 - gap) // 2
+    ch = (H - top - 36 - gap) // 2
+    for i, (hd, lines) in enumerate(items):
+        x = 60 + (i % 2) * (cw + gap)
+        y = top + (i // 2) * (ch + gap)
+        c = PAL[i % 4]
+        d.rounded_rectangle((x, y, x + cw, y + ch), 26, fill="white", outline=c, width=4)
+        hx = x + 32
+        if numbered:
+            d.ellipse((hx, y + 30, hx + 52, y + 82), fill=c)
+            d.text((hx + 26, y + 56), str(i + 1), font=font(FB, 32), fill="white", anchor="mm")
+            hx += 70
+        else:
+            d.rounded_rectangle((hx, y + 26, hx + 64, y + 36), 5, fill=c)
+        hy = y + 30 if numbered else y + 50
+        d.text((hx, hy + (6 if numbered else 0)), hd, font=fit(d, hd, FB, 46, x + cw - 28 - hx, 36), fill=c)
+        by = y + (104 if numbered else 118)
+        for k, ln in enumerate(lines[:2]):
+            d.text((x + 32, by + k * 48), ln, font=fit(d, ln, FR, 34, cw - 60, 30), fill=INK)
+    out = os.path.join(ROOT, "assets", "shop", slug, f"{n}.png")
+    im.save(out, optimize=True)
+    return out
+
+
+JOBS = [
+    ("galaxy-s26-ultra", 1, "갤럭시 S26 울트라 핵심 사양", "2026년 2월 공개 기준 (보도 종합)", [
+        ("6.9형 QHD+", ["프라이버시 디스플레이", "옆에서는 화면이 잘 안 보임"]),
+        ("2억 화소 F1.4", ["메인 카메라", "+ 5배 광학 망원 5천만"]),
+        ("5,000mAh", ["배터리 용량", "전작과 같음"]),
+        ("7.9mm · 214g", ["두께 · 무게", "S펜 내장 (블루투스 없음)"]),
+    ], "#F3F1FF", (1200, 750), False),
+    ("galaxy-tab-s12-ultra", 1, "갤럭시탭 S12 울트라 핵심 사양", "삼성전자 뉴스룸 발표(2026.10.1) 기준", [
+        ("14.6형 120Hz", ["다이내믹 AMOLED 2X", "2960×1848"]),
+        ("5.1mm · 692g", ["두께 · 무게", "Wi-Fi 모델 기준"]),
+        ("11,600mAh", ["45W 고속 충전", "완충 약 95분"]),
+        ("S펜 기본 포함", ["12GB 램 + 256GB부터", "microSD 최대 2TB"]),
+    ], "#F1F6FF", (1200, 750), False),
+    ("jbl-authentics-200", 1, "JBL 어센틱 200 핵심 사양", "JBL 공식 사양 기준", [
+        ("최대 90W", ["스피커 4개 · 2.0 스테레오", "THD 1% 기준"]),
+        ("50Hz~20kHz", ["재생 주파수", "-6dB 기준"]),
+        ("블루투스 5.3 + Wi-Fi", ["Wi-Fi 6(ax) 지원", "2.4GHz · 5GHz"]),
+        ("3.12kg · AC 전원", ["266 × 172 × 167mm", "배터리 없음, 콘센트 사용"]),
+    ], "#FFF6F0", (1200, 750), False),
+    ("student-office-laptop", 1, "인강·과제·사무용 권장 사양", "이 정도면 수업, 문서, 화상회의를 무리 없이 해요", [
+        ("CPU · 램", ["i5 · Ryzen 5급 이상", "램 16GB 권장"]),
+        ("저장장치", ["SSD 512GB", "자료가 많으면 1TB"]),
+        ("무게 · 배터리", ["들고 다니면 1.5kg 안팎", "배터리는 표기보다 짧을 수 있음"]),
+        ("화면", ["14~16인치", "FHD(1920×1080) 이상"]),
+    ], "#F6F4FF", (1200, 800), True),
+    ("bespoke-ai-steam-ultra", 3, "집 밖에서도 쓰는 기능 & 보안", "SmartThings 연동 · 삼성 녹스 (발표 기준)", [
+        ("홈 모니터링 · 순찰", ["밖에서 로봇청소기로 집 안 확인", "움직임이 없으면 집 안 순찰"]),
+        ("원격 상담", ["고장 진단 · 조치를", "원격으로"]),
+        ("녹스 볼트", ["비밀번호 · 인증 정보를", "보안 칩에 저장"]),
+        ("영상 암호화 · UL", ["이미지 · 영상 종단 간 암호화", "UL IoT 보안 최고 등급(다이아몬드)"]),
+    ], "#F4F2FF", (1200, 750), False),
+    ("calf-foot-air-massager", 2, "고를 때 볼 4가지", "상세페이지에서 이 표기를 먼저 찾아보세요", [
+        ("압력 · 자동 꺼짐", ["약한 단계부터 있는지", "15~20분 자동 종료가 있는지"]),
+        ("감싸는 부위 · 사이즈", ["발만 / 종아리 / 허벅지까지", "종아리 둘레에 맞게 조절되는지"]),
+        ("온열 기능", ["따뜻함 + 온도 조절", "저온 화상 주의 표시"]),
+        ("의료기기 표시", ["허가 · 신고 번호와", "사용상 주의사항"]),
+    ], "#FFF6EF", (1200, 800), True),
+]
+
+if __name__ == "__main__":
+    for j in JOBS:
+        print(draw(*j))

diff --git a/scripts/connect_posts.py b/scripts/connect_posts.py
@@ -360,7 +360,7 @@ POSTS = [
         "desc": "공기압 종아리·발 마사지기를 고를 때 볼 압력 단계, 감싸는 부위, 온열, 자동 꺼짐, 의료기기 표시를 그림으로 정리했습니다. 사용 전 상담이 필요한 경우와 가격 비교 기준까지.",
         "images": [
             ("/assets/shop/calf-foot-air-massager/1.png", "공기압 마사지기 작동 순서: 발바닥, 발목, 종아리 아래, 종아리 위 순서로 공기 주머니가 부풀었다 빠짐"),
-            ("/assets/shop/calf-foot-air-massager/2.png", "종아리 마사지기 고를 때 볼 6가지: 압력 단계, 감싸는 부위, 온열 기능, 자동 꺼짐, 사이즈, 의료기기 표시"),
+            ("/assets/shop/calf-foot-air-massager/2.png", "종아리 마사지기 고를 때 볼 4가지: 압력 단계와 자동 꺼짐, 감싸는 부위와 사이즈, 온열 기능, 의료기기 표시"),
             ("/assets/shop/calf-foot-air-massager/3.png", "공기압 마사지기 사용 전 상담이 필요한 경우: 혈전 이력, 다리 상처, 심장·신장 질환, 임신·수술 직후, 다리 감각 저하"),
         ],
         "body": [
